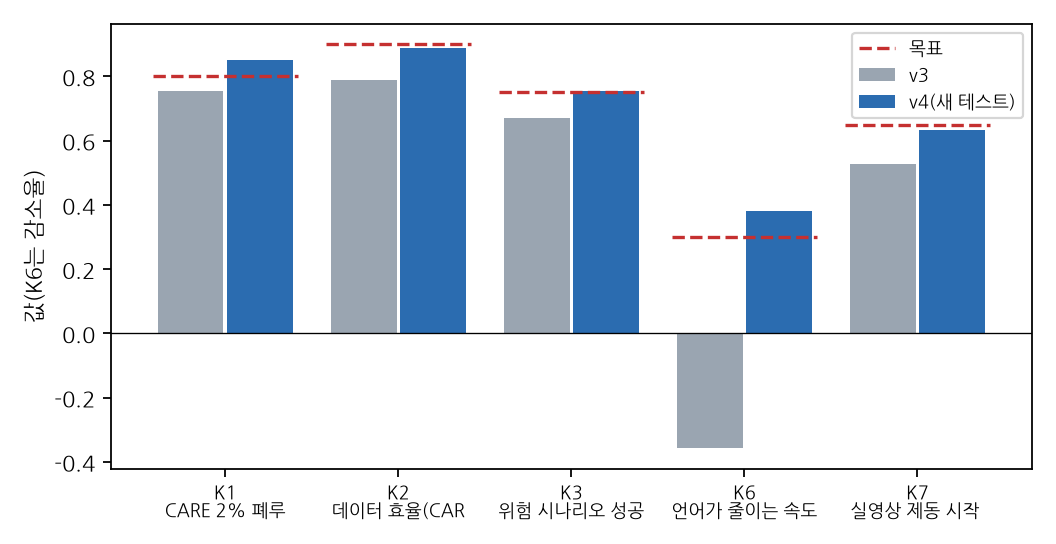
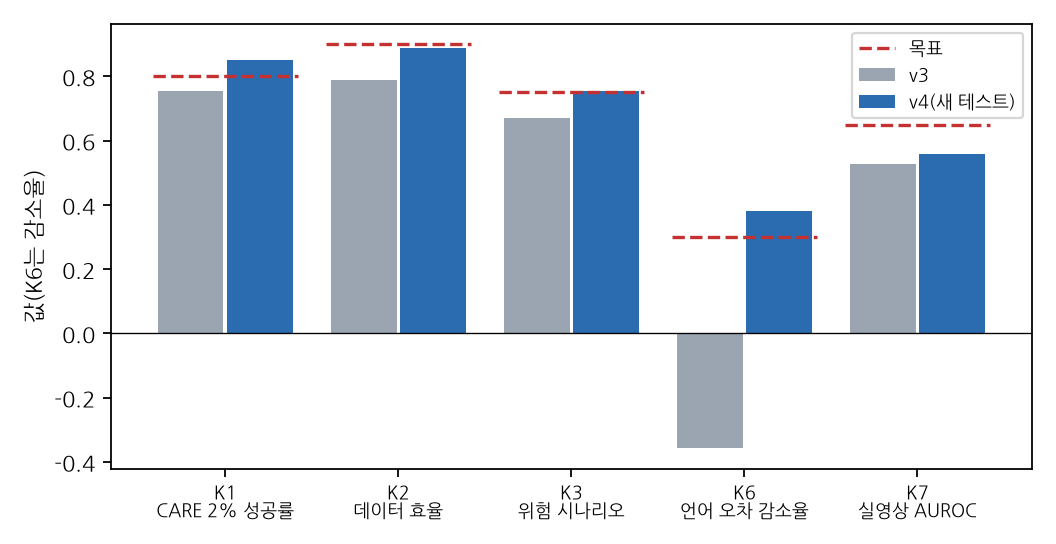
v4 확증 실험 완료: K1·K3·K6 달성, K2·K4·K5·K7 미달(새 테스트), 최종 KPI 표·그림
Claude-Session: https://claude.ai/code/session_01GSsf4FLGc433Q6A4YHmwfK

diff --git a/docs/36_v4_알고리즘_모델_개선계획.md b/docs/36_v4_알고리즘_모델_개선계획.md
@@ -123,7 +123,7 @@
 - [x] A15 관측·선별(특징 이력·S1; S1은 측정 후 기각, 2.1절)
 - [x] v4 스위트·개발 실험(2026-10-04 23:26 완료, 주행·AMR 모두 "전부+P7" 채택)
 - [x] 사전 등록 docs/37 커밋
-- [ ] 새 테스트 확증(주행·반사실·AMR·실영상)
+- [x] 새 테스트 확증(주행·반사실·AMR·실영상, 2026-10-05 04:36 완료)
 - [ ] 원고 반영
 
 ## 8. 실행 기록(새 테스트, 사전 등록 docs/37)
@@ -134,9 +134,13 @@
   - H-v(v4 CARE − v3 CARE) +0.148 [+0.105, +0.190], Holm p < 0.001.
   - 같은 새 테스트에서 v3 CARE는 0.703, v3 무작위는 0.660이었다.
 - 언어 반사실 단계 완료(2026-10-05 02:55, 20작업). K6(v4 CARE 2%)는 아래와 같다.
-  - 속도 오차는 언어 없음 2.60, 언어 있음 1.62 m/s로 37.7% 줄었다(달성).
+  - 속도 오차는 언어 없음 2.60, 언어 있음 1.62 m/s로 38.0% 줄었다(달성, 보고서 값).
   - 전체 데이터에서는 2.19 → 0.82 m/s로 62.6% 줄었다.
   - 신중−민첩 추종 간격 차는 언어를 넣으면 0.40 → 1.13 s(CARE), 0.19 → 1.18 s(전체)로 커졌다.
   - 해석 주의: v4에는 P7(지시문 목표 속도 비례 제어 기준 + 학습 잔차)이 들어 있다. 이 감소의 일부는 해석적 제어기 덕분이다. 언어를 빼면 P6·P7 경로도 함께 꺼진다.
 - AMR 단계 완료(2026-10-05 03:48, 18작업). K5(v4 CARE − v4 무작위, 2%)는 −0.008 [95% CI −0.069, +0.053]이다. CI 하한이 −0.03보다 낮아 비열등 판정은 미달이다. 점추정은 v3(−0.069)보다 0에 가깝지만, 시드 5개라 구간이 넓다.
   - 절대 성공률은 크게 올랐다. CARE 0.322 → 0.506, 무작위 0.392 → 0.514, 전체 0.444 → 0.602(v3 → v4). v3·v4의 테스트 시드는 서로 다르다.
+- 실영상 단계 완료(2026-10-05 04:36, 70작업). K7(v4 전체 데이터 정책 제동 시작 AUROC)은 0.558 ± 0.139로 미달이다(v3 0.528).
+  - fold별 값은 0.30~0.70이고, fold 1이 0.30·0.34로 특히 낮다.
+  - 같은 시험 프레임에서 정책 없이 −a_t만 쓴 기준선은 0.802다. P5(자차 운동 이력)는 시뮬레이터 폐루프 개발 세트에서 관성 추종으로 성능이 떨어져(0.567) 기각했으므로, 실영상 정책에도 속도 이력이 없다. 개루프 지표(실영상)와 폐루프 지표(시뮬레이터)가 서로 다른 설계를 요구하는 사례다.
+- **v4 최종(새 테스트)**: K1 0.851·K3 0.755·K6 38.0%는 달성했다. K2 0.888·K4 +0.002·K5 −0.008 [−0.069, +0.053]·K7 0.558은 미달이다. v4 CARE − v3 CARE(같은 새 테스트)는 +0.148 [+0.105, +0.190]이다.

diff --git a/experiments/exp_130_vla_v4/summary/tables/v4_comma.md b/experiments/exp_130_vla_v4/summary/tables/v4_comma.md
@@ -1,9 +1,9 @@
 | 방법 | 예산 | 실행 | 제동 시작 AUROC | MAE | 제동 MAE |
 |---|---|---|---|---|---|
-| CARE | 10% | 2 | 0.551 ± 0.229 | 0.382 | 0.490 |
-| CARE | 20% | 1 | 0.628 ± 0.000 | 0.404 | 0.575 |
-| 전체(100%) | 100% | 2 | 0.633 ± 0.024 | 0.340 | 0.490 |
-| 저장소 + 감속 트리거 | 10% | 2 | 0.604 ± 0.052 | 0.399 | 0.358 |
-| 저장소 + 감속 트리거 | 20% | 1 | 0.700 ± 0.000 | 0.457 | 0.322 |
-| 무작위(공유 저장소) | 10% | 2 | 0.584 ± 0.187 | 0.428 | 0.387 |
-| 무작위(공유 저장소) | 20% | 2 | 0.616 ± 0.125 | 0.375 | 0.418 |
+| CARE | 10% | 10 | 0.521 ± 0.116 | 0.549 | 0.797 |
+| CARE | 20% | 10 | 0.567 ± 0.092 | 0.525 | 0.726 |
+| 전체(100%) | 100% | 10 | 0.558 ± 0.139 | 0.507 | 0.737 |
+| 저장소 + 감속 트리거 | 10% | 10 | 0.566 ± 0.096 | 0.574 | 0.665 |
+| 저장소 + 감속 트리거 | 20% | 10 | 0.564 ± 0.116 | 0.587 | 0.659 |
+| 무작위(공유 저장소) | 10% | 10 | 0.540 ± 0.103 | 0.555 | 0.769 |
+| 무작위(공유 저장소) | 20% | 10 | 0.573 ± 0.085 | 0.530 | 0.704 |

diff --git a/experiments/exp_130_vla_v4/summary/tables/v4_kpi.md b/experiments/exp_130_vla_v4/summary/tables/v4_kpi.md
@@ -6,4 +6,4 @@
 | K4 | 점수기 고유 기여(CARE − 트리거 혼합) | CI 하한 > 0 | +0.046 [−0.003, +0.093] (미달) | +0.002 [−0.024, +0.029] | 미달 |
 | K5 | AMR CARE − 무작위(공유 저장소) | CI 하한 > −0.03 | −0.069 [−0.181, +0.033] (미달) | −0.008 [−0.069, +0.053] | 미달 |
 | K6 | 언어가 줄이는 속도 추종 오차(반사실) | >= 30% | −35.8% (미달) | 38.0% | 달성 |
-| K7 | 실영상 제동 시작 예측 AUROC(전체 데이터) | >= 0.65 | 0.528 (미달) | 0.633 | 미달 |
+| K7 | 실영상 제동 시작 예측 AUROC(전체 데이터) | >= 0.65 | 0.528 (미달) | 0.558 | 미달 |
